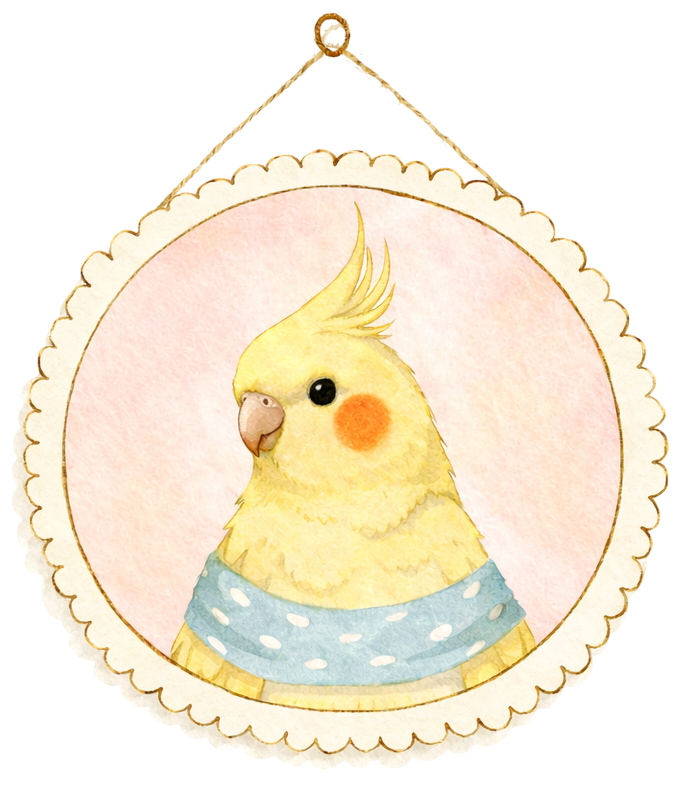
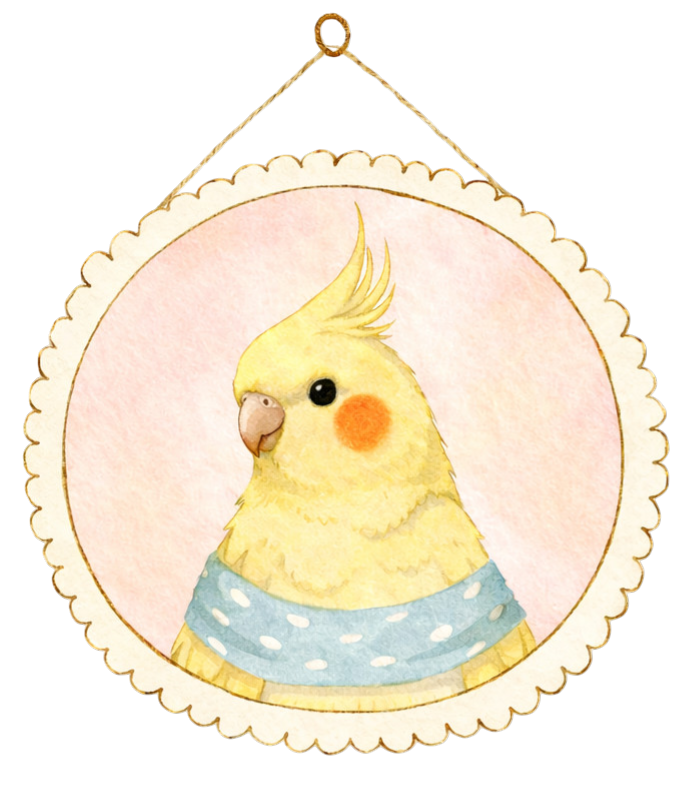
style: add sparkle hover effects to hero buttons and psita photo cards

diff --git a/src/app/page.js b/src/app/page.js
@@ -30,11 +30,11 @@ export default function Home() {
 
           {/* Botões dentro do hero */}
           <div className="flex flex-row" style={{ marginTop: "32px", gap: "20px" }}>
-            <a href="#conheca-o-bando" className="font-chalk hover:scale-105 transition-all flex items-center justify-center" style={{ backgroundColor: "#E6A15C", color: "#fff", fontSize: "22px", padding: "10px 28px", border: "none", borderRadius: "16px", boxShadow: "0 4px 12px rgba(0,0,0,0.1)", textDecoration: "none" }}>
+            <a href="#conheca-o-bando" className="btn-hero btn-brilhos font-chalk flex items-center justify-center" style={{ backgroundColor: "#E6A15C", color: "#fff", fontSize: "22px", padding: "10px 28px", border: "none", textDecoration: "none" }}>
               Conhecer a Turma
             </a>
 
-            <Link href="/gerador" className="font-chalk hover:scale-105 transition-all flex items-center justify-center" style={{ backgroundColor: "transparent", color: "#E6A15C", fontSize: "22px", padding: "10px 28px", border: "2px solid #E6A15C", borderRadius: "16px", textDecoration: "none" }}>
+            <Link href="/gerador" className="btn-hero font-chalk flex items-center justify-center" style={{ backgroundColor: "transparent", color: "#E6A15C", fontSize: "22px", padding: "10px 28px", border: "2px solid #E6A15C", textDecoration: "none" }}>
               Gerar Nomes
             </Link>
           </div>
@@ -57,22 +57,22 @@ export default function Home() {
         <div className="flex flex-row justify-center flex-wrap" style={{ gap: "60px" }}>
 
           {/* Jujuba */}
-          <Link href="/jujuba" className="flex flex-col items-center hover:scale-105 transition-transform duration-200" style={{ textDecoration: "none" }}>
-            <img src="/jujuba-portrait.png" alt="Jujuba" style={{ width: "260px", height: "320px", objectFit: "cover", borderRadius: "12px" }} className="mb-4" />
+          <Link href="/jujuba" className="flex flex-col items-center" style={{ textDecoration: "none" }}>
+            <img src="/jujuba-portrait.png" alt="Jujuba" style={{ width: "260px", height: "320px", objectFit: "cover", borderRadius: "12px" }} className="psita-foto mb-4" />
             <p className="font-chalk text-grafite-lapis" style={{ fontSize: "32px", marginBottom: "2px" }}>Jujuba</p>
             <p style={{ fontFamily: "'Raleway', sans-serif", fontSize: "15px", color: "#E6A15C" }}>Juju</p>
           </Link>
 
           {/* Theo */}
-          <Link href="/theo" className="flex flex-col items-center hover:scale-105 transition-transform duration-200" style={{ textDecoration: "none" }}>
-            <img src="/theo-portrait.png" alt="Theo" style={{ width: "260px", height: "320px", objectFit: "cover", borderRadius: "12px" }} className="mb-4" />
+          <Link href="/theo" className="flex flex-col items-center" style={{ textDecoration: "none" }}>
+            <img src="/theo-portrait.png" alt="Theo" style={{ width: "260px", height: "320px", objectFit: "cover", borderRadius: "12px" }} className="psita-foto mb-4" />
             <p className="font-chalk text-grafite-lapis" style={{ fontSize: "32px", marginBottom: "2px" }}>Theo</p>
             <p style={{ fontFamily: "'Raleway', sans-serif", fontSize: "15px", color: "#E6A15C" }}>Sapinho</p>
           </Link>
 
           {/* Yuki */}
-          <Link href="/yuki" className="flex flex-col items-center hover:scale-105 transition-transform duration-200" style={{ textDecoration: "none" }}>
-            <img src="/yuki-portrait.png" alt="Yuki" style={{ width: "260px", height: "320px", objectFit: "cover", borderRadius: "12px" }} className="mb-4" />
+          <Link href="/yuki" className="flex flex-col items-center" style={{ textDecoration: "none" }}>
+            <img src="/yuki-portrait.png" alt="Yuki" style={{ width: "260px", height: "320px", objectFit: "cover", borderRadius: "12px" }} className="psita-foto mb-4" />
             <p className="font-chalk text-grafite-lapis" style={{ fontSize: "32px", marginBottom: "2px" }}>Yuki</p>
             <p style={{ fontFamily: "'Raleway', sans-serif", fontSize: "15px", color: "#E6A15C" }}>Pupuki</p>
           </Link>

diff --git a/src/app/globals.css b/src/app/globals.css
@@ -64,3 +64,40 @@ nav a {
 .font-raleway {
   font-family: 'Raleway', sans-serif !important;
 }
+
+/* Hover nas fotos dos cards das psitas */
+.psita-foto {
+  transition: transform 0.25s ease, filter 0.25s ease;
+}
+.psita-foto:hover {
+  transform: translateY(-6px) scale(1.02);
+  filter: drop-shadow(0 12px 20px rgba(0,0,0,0.2));
+}
+
+/* Botões do hero */
+.btn-hero {
+  position: relative;
+  border-radius: 16px;
+  transition: all 0.25s ease;
+}
+.btn-hero:hover {
+  transform: translateY(-3px) scale(1.04);
+}
+
+/* Brilhos no botão "Conhecer a Turma" */
+.btn-hero.btn-brilhos::after {
+  content: "✦";
+  position: absolute;
+  right: 14px;
+  top: 5px;
+  font-size: 13px;
+  opacity: 0.8;
+}
+.btn-hero.btn-brilhos::before {
+  content: "✦";
+  position: absolute;
+  left: 14px;
+  bottom: 5px;
+  font-size: 11px;
+  opacity: 0.6;
+}
